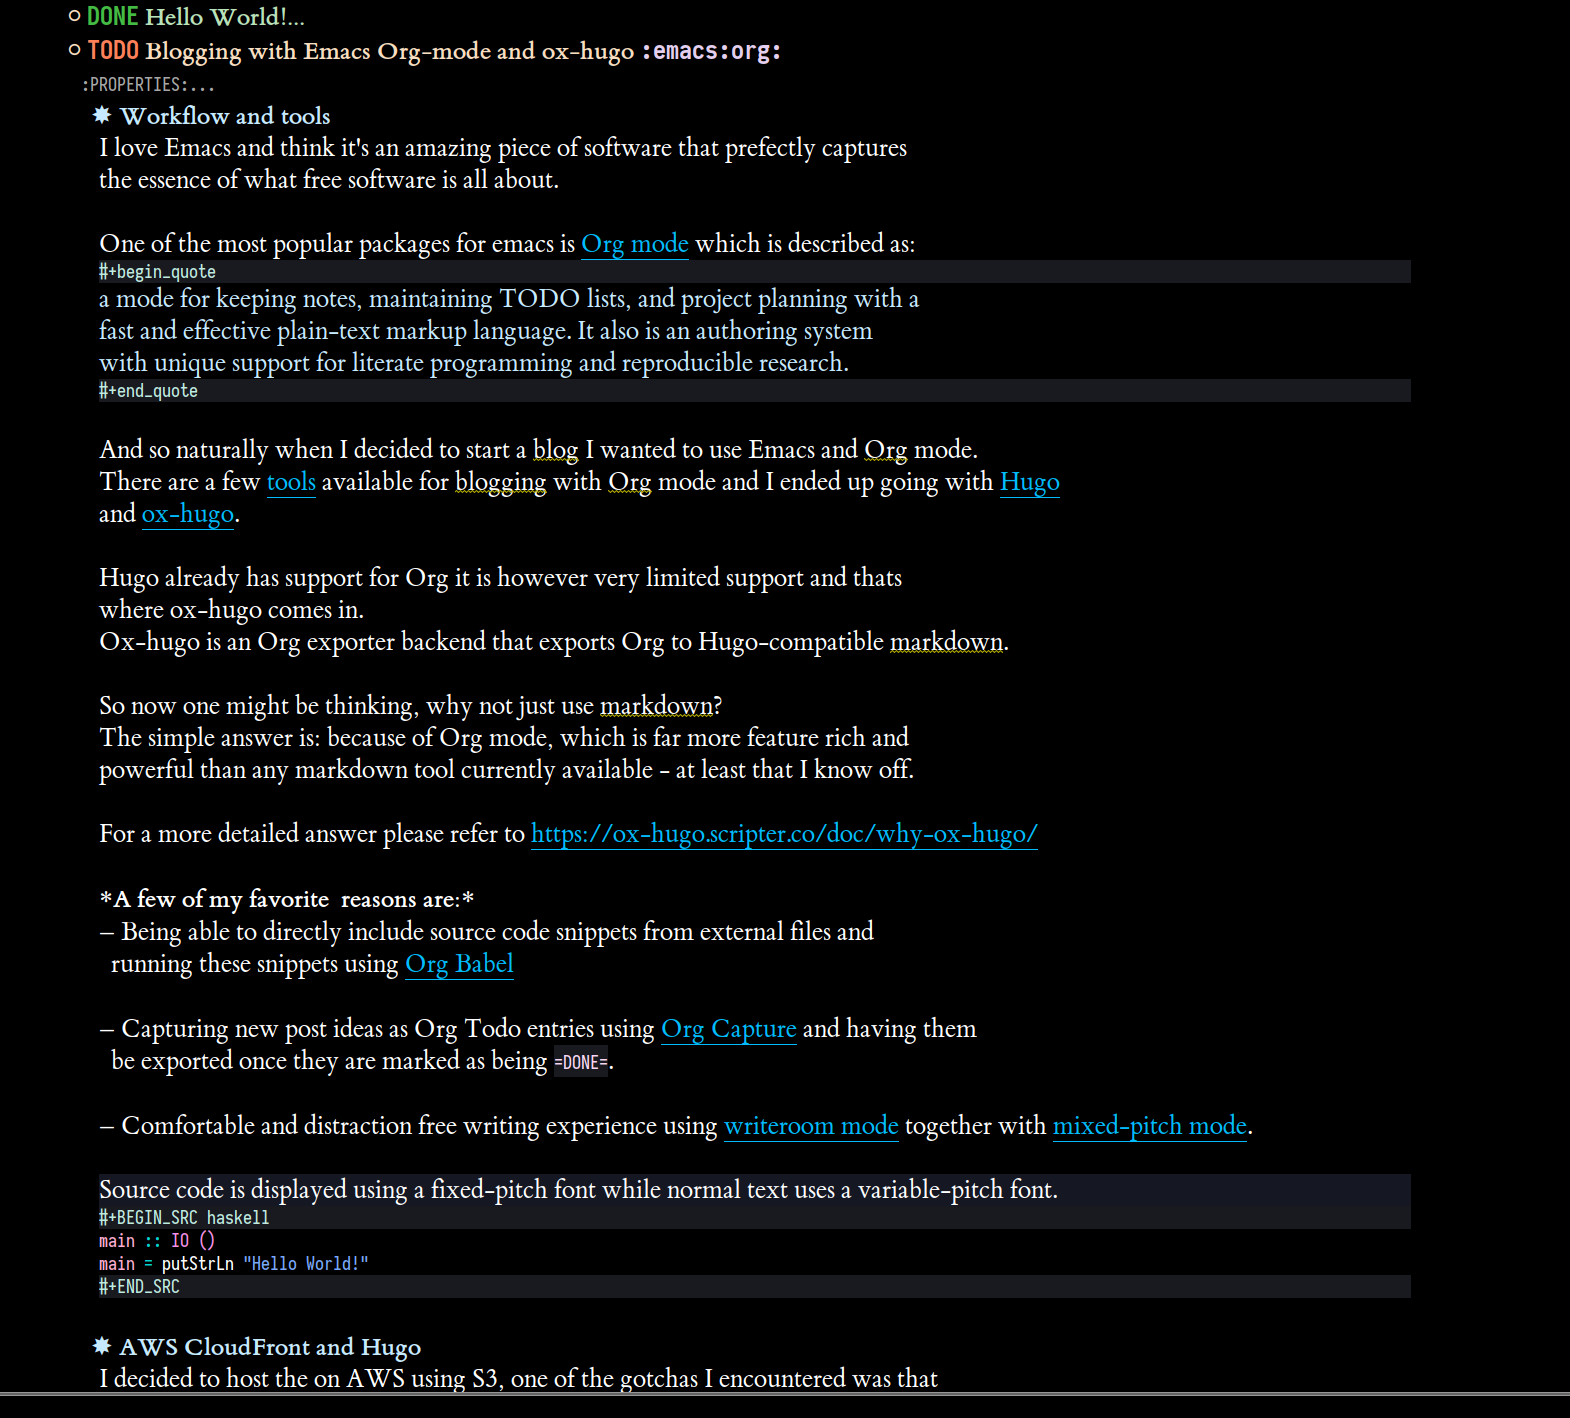
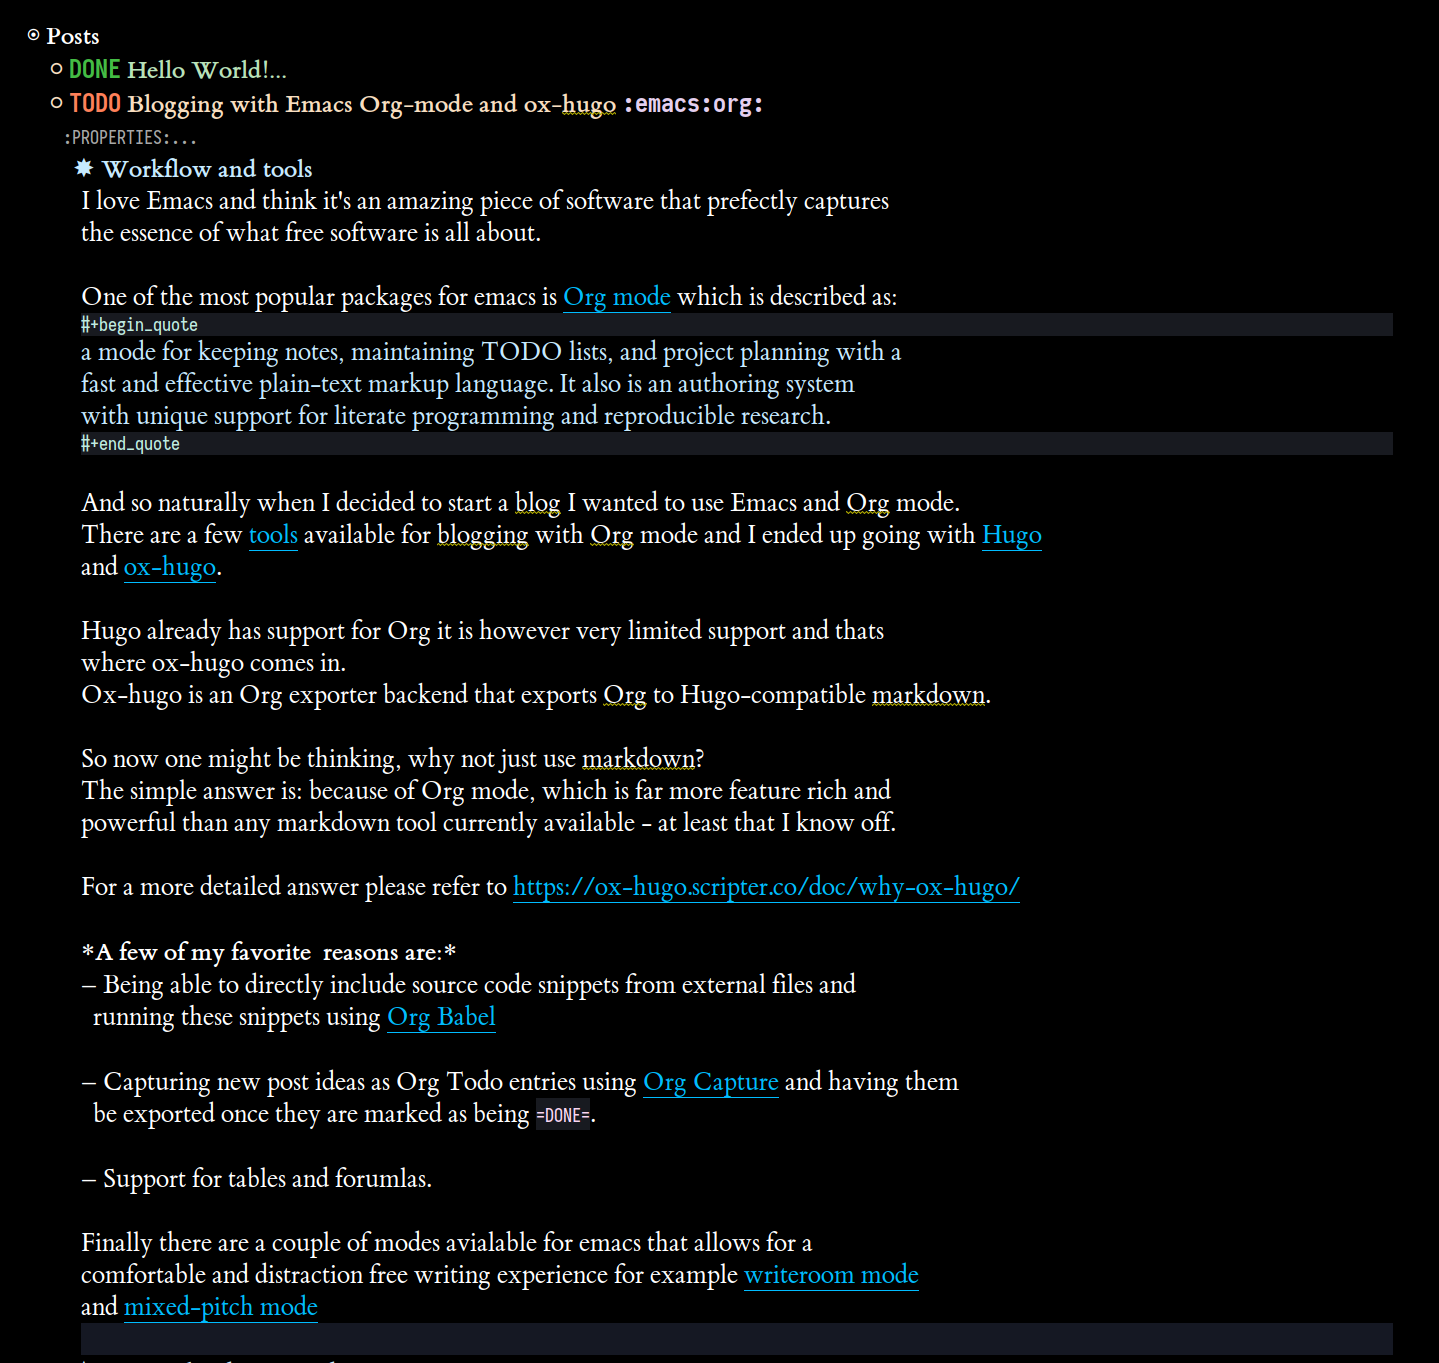
update blogging-with-org-mode-and-ox-hugo

Changed region(s): [[0.0306, 0.0, 0.9785, 1.0]]

diff --git a/content/posts/blogging-with-org-mode-and-ox-hugo.md b/content/posts/blogging-with-org-mode-and-ox-hugo.md
@@ -40,9 +40,13 @@ For a more detailed answer please refer to <https://ox-hugo.scripter.co/doc/why-
 -   Capturing new post ideas as Org Todo entries using [Org Capture](https://orgmode.org/manual/Capture.html) and having them
     be exported once they are marked as being `DONE`.
 
--   Comfortable and distraction free writing experience using [writeroom mode](https://github.com/joostkremers/writeroom-mode) together with [mixed-pitch mode](https://gitlab.com/jabranham/mixed-pitch).
+-   Support for tables and forumlas.
 
-    {{< figure src="/images/zenmode.png" caption="Figure 1: Writeroom mode and mixed-pitch mode" >}}
+Finally there are a couple of modes avialable for emacs that allows for a
+comfortable and distraction free writing experience for example [writeroom mode](https://github.com/joostkremers/writeroom-mode)
+and [mixed-pitch mode](https://gitlab.com/jabranham/mixed-pitch)
+
+{{< figure src="/images/zenmode.png" caption="Figure 1: Writeroom mode and mixed-pitch mode" >}}
 
 
 ## AWS CloudFront and Hugo {#aws-cloudfront-and-hugo}
